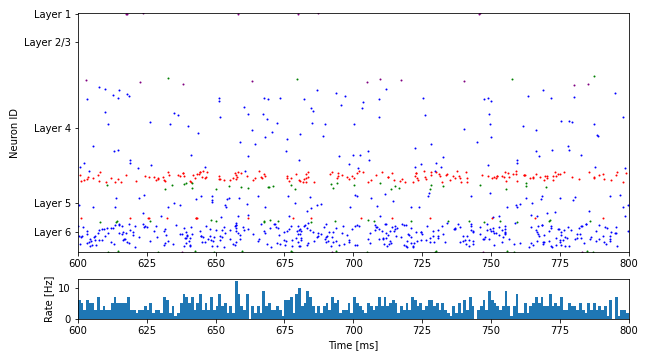
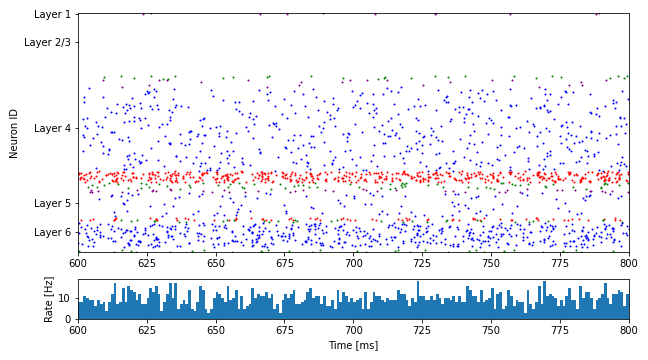
:3

diff --git a/simulation/run.py b/simulation/run.py
@@ -11,12 +11,12 @@ from functions import Network, raster, rate, approximate_lfp_timecourse, get_isi
 import time
 
 ## Set the scaling factors for the model
-Nscale = .05                 ## Scaling the number of neurons in
-Kscale = .13                 ## Scaling the number of connections 
-Sscale = 1.                 ## Scaling the synaptic strength
-Rscale = Nscale * 0.1      ## Scaling the number of neurons we record from
+Nscale = .5                  ## Scaling the number of neurons in
+Kscale = .5                  ## Scaling the number of connections 
+Sscale = 1.                  ## Scaling the synaptic strength
+Rscale = Nscale * 0.1        ## Scaling the number of neurons we record from
 
-# get the start time
+## get the start time
 st = time.time()
 
 ########################
@@ -147,7 +147,7 @@ for i in range(len(layertypes)):
 
 ##L1 | L23e, i | L4e,i | L5e,i | L6e,i
 #ext_rates = np.array([1500, 1600, 1500, 1500, 1500, 2100, 1900, 1900, 1900, 2000, 1900, 1900, 1900, 2900, 2100, 2100, 2100]) * 8 * Kscale ## original
-ext_rates = np.array([1400, 1000, 1400, 1200, 1100, 1500, 1800, 1800, 1800, 1700, 1900, 1900, 1900, 2600, 2100, 2100, 2100])* 8 * 1 * Kscale
+ext_rates = np.array([1400, 1000, 1400, 1200, 1100, 1500, 1800, 1800, 1800, 1700, 1900, 1900, 1900, 2600, 2100, 2100, 2100])* 4 * 1 * Kscale
 stim_weights = [5, 
             1.97, 2.2, 4.2, 1.5, 
             3e0, 7.5e0, 3.6, 0.8, 
@@ -209,13 +209,13 @@ for i in range(len(mmdata)):
 ## Approximate the lfp timecourse per layer
 lfp_tc_l1 = approximate_lfp_timecourse([mmdata[0]], times)
 print("Layer 1 finished")
-lfp_tc_l2 = approximate_lfp_timecourse(mmdata[1:5], times)
+lfp_tc_l23 = approximate_lfp_timecourse(mmdata[1:5], times)
 print("Layer 2/3 finished")
-lfp_tc_l3 = approximate_lfp_timecourse(mmdata[5:9], times)
+lfp_tc_l4 = approximate_lfp_timecourse(mmdata[5:9], times)
 print("Layer 4 finished")
-lfp_tc_l4 = approximate_lfp_timecourse(mmdata[9:13], times)
+lfp_tc_l5 = approximate_lfp_timecourse(mmdata[9:13], times)
 print("Layer 5 finished")
-lfp_tc_l5 = approximate_lfp_timecourse(mmdata[13:17], times)
+lfp_tc_l6 = approximate_lfp_timecourse(mmdata[13:17], times)
 print("Layer 6 finished, plotting...")
 print(f"Time required for layer estimation procedure: {time.time() - st}")
 
@@ -245,17 +245,17 @@ t = t.reshape(t.shape[0],)
 ## plot the timecourse in the recorded time window
 fig, ax = plt.subplots()
 ax.plot(t, lfp_tc_l1, label = "Layer 1")
-ax.plot(t, lfp_tc_l2, label = "Layer 2/3")
-ax.plot(t, lfp_tc_l3, label = "Layer 4")
-ax.plot(t, lfp_tc_l4, label = "Layer 5")
-ax.plot(t, lfp_tc_l5, label = "Layer 6")
+ax.plot(t, lfp_tc_l23, label = "Layer 2/3")
+ax.plot(t, lfp_tc_l4, label = "Layer 4")
+ax.plot(t, lfp_tc_l5, label = "Layer 5")
+ax.plot(t, lfp_tc_l6, label = "Layer 6")
 plt.show()
 
 legend = ax.legend(loc='right', bbox_to_anchor=(1.3, 0.7), shadow=False, ncol=1)
 plt.show()
 plt.savefig('simresults/LFP_approximation.png')
 
-temp = np.vstack([lfp_tc_l1, lfp_tc_l2, lfp_tc_l3, lfp_tc_l4, lfp_tc_l5])
+temp = np.vstack([lfp_tc_l1, lfp_tc_l23, lfp_tc_l4, lfp_tc_l5, lfp_tc_l6])
 
 plt.figure()
 plt.imshow(temp, aspect="auto")
@@ -265,13 +265,14 @@ plt.savefig('simresults/vstack.png')
 print(f"Time required for plotting and final time: {time.time() - st}")
 print("All done!")
 
-newlst = np.array([lfp_tc_l1, lfp_tc_l2, lfp_tc_l3, lfp_tc_l4, lfp_tc_l5])
+newlst = np.array([lfp_tc_l1, lfp_tc_l23, lfp_tc_l4, lfp_tc_l5, lfp_tc_l6])
 
 # results = []
 # for spk in spikes:
 #     print(f"Average firing rate: {get_firing_rate(spk, params['rec_start'], params['rec_stop'])} \nIrregularity: {get_irregularity(spk)} \nSynchrony: {get_synchrony(spk)}")
 #     results.append([get_firing_rate(spk, params['rec_start'], params['rec_stop']), get_irregularity(spk), get_synchrony(spk)])
 #     #return results
-    
+#print(get_irregularity(spikes))
+
 #run_model()
 #icsd.CSD(lfp_tc)

diff --git a/simulation/functions.py b/simulation/functions.py
@@ -299,9 +299,6 @@ class Network:
         mmlist = []
         for d in self.__multimeter:
             mmlist.append(nest.GetStatus(d)[0]["events"])
-            
-        ## Get unaltered spike data
-        spike_data = [nest.GetStatus(r) for r in self.__spike_recorder]
         
         return mmlist, self.data
 
@@ -542,7 +539,7 @@ def get_isi(spike_times):
         Returns a list of interspike intervalls
 
     """
-    return [np.diff(x) for x in spike_times if len(x) > 1]
+    return [np.diff(x) if len(x) > 1 else [] for x in spike_times]
 
 def get_synchrony(populations):
     pass
@@ -560,21 +557,21 @@ def get_irregularity(spike_times):
 
     Returns
     -------
-    cv : float
+    iv : float
         A measure of irregularity, bounded between 0 and 1, where 1 is the highest and 0 the lowest.
 
     """
-    isi = get_isi(spike_times)
-    print(f"THE ISI IS: {isi}")
-    iv = np.std(isi) / np.mean(isi)
-    #mean_isi = np.mean(isi)
-    #cv = np.std(isi) / mean_isi
+    all_spikes = [list(itertools.chain(*x)) for x in spike_times]
+    print(all_spikes)
+    isi_lst = [get_isi(spk) for spk in all_spikes]
+    print(isi_lst)
+    iv = [np.std(isi)/np.mean(isi) if len(isi) > 1 else -1 for isi in isi_lst]
     return iv
 
 def get_firing_rate(spike_times, start, stop):
     spikes_total = list(itertools.chain(*spike_times))
     dt = (stop - start) / 1000
-    afr = len(spikes_total)/dt/len(spike_times) ## (stop-start) / 1000
+    afr = len(spikes_total)/dt/len(spike_times)
     
     return afr
 
